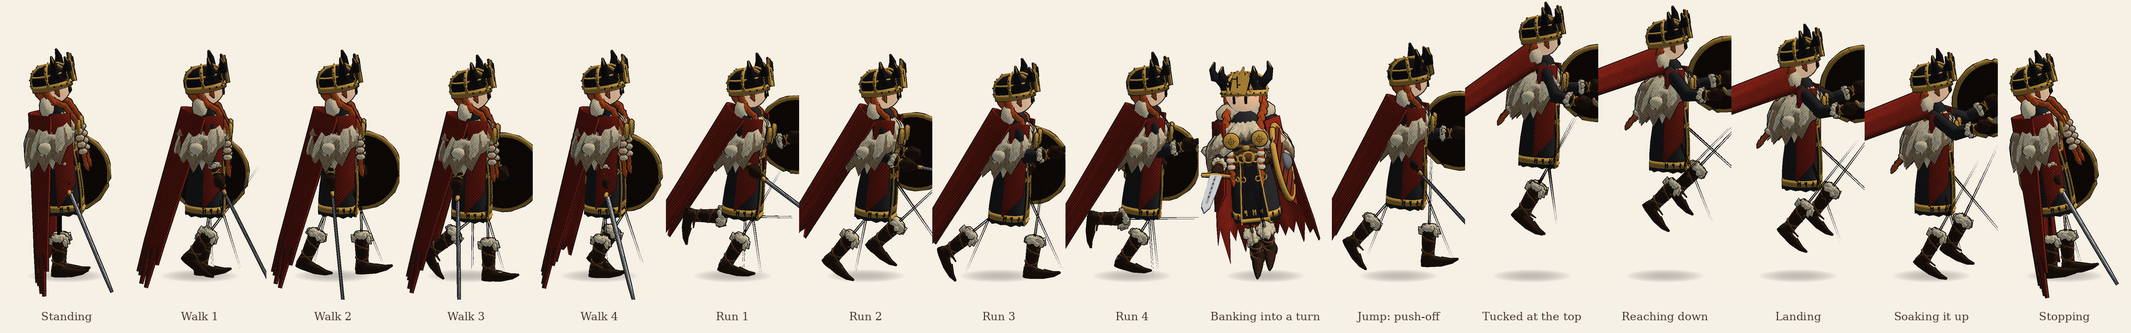
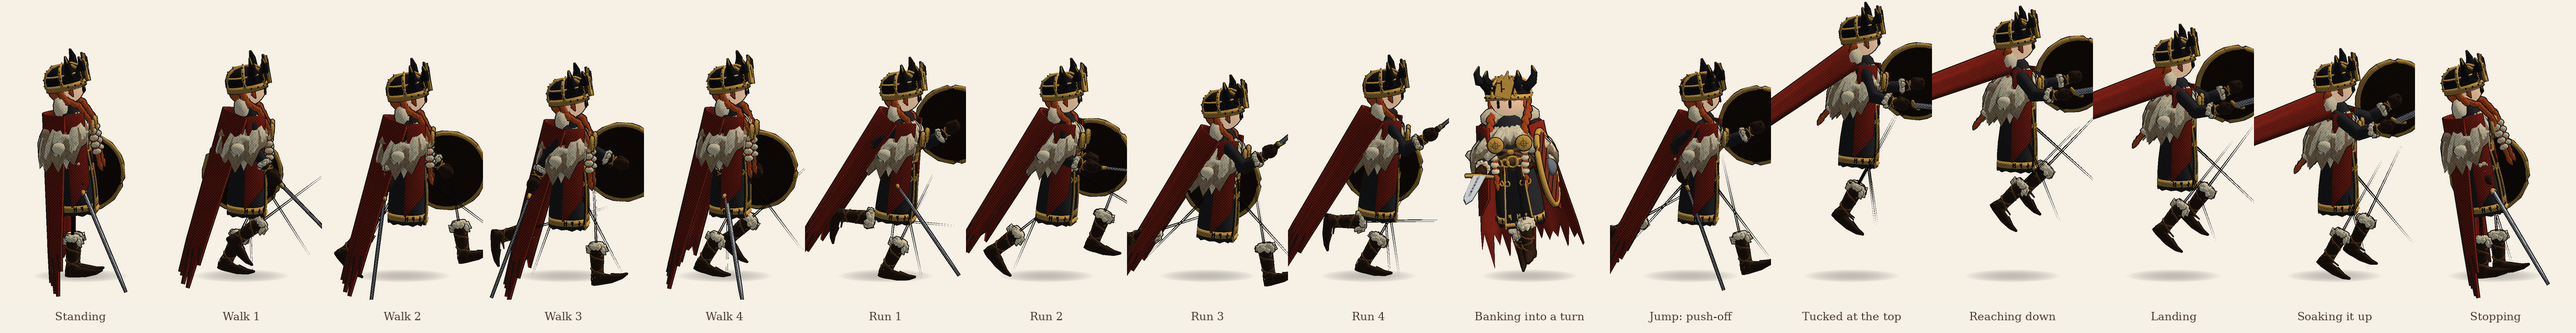
Planted feet: hip sweep matches the ground covered, so the stance foot doesn't skate
Claude-Session: https://claude.ai/code/session_01SCdejJ1UF8RUxAkkFhZXGU

diff --git a/tools/unity-stub/UnityStub.cs b/tools/unity-stub/UnityStub.cs
@@ -84,7 +84,7 @@ namespace UnityEngine {
   public static class Mathf { public const float PI=(float)Math.PI, Deg2Rad=(float)(Math.PI/180), Rad2Deg=(float)(180/Math.PI), Infinity=float.PositiveInfinity;
     public static float Sqrt(float f){return (float)Math.Sqrt(f);} public static float Max(float a,float b){return Math.Max(a,b);} public static int Max(int a,int b){return Math.Max(a,b);} public static float Min(float a,float b){return Math.Min(a,b);} public static int Min(int a,int b){return Math.Min(a,b);}
     public static float Abs(float f){return Math.Abs(f);} public static float Clamp(float v,float a,float b){return v<a?a:v>b?b:v;} public static int Clamp(int v,int a,int b){return v<a?a:v>b?b:v;} public static float Clamp01(float v){return Clamp(v,0,1);} public static float Lerp(float a,float b,float t){return a+(b-a)*Clamp01(t);}
-    public static float InverseLerp(float a,float b,float v){return a!=b? Clamp01((v-a)/(b-a)) : 0;} public static float Atan2(float y,float x){return (float)Math.Atan2(y,x);} public static float Cos(float f){return (float)Math.Cos(f);} public static float Sin(float f){return (float)Math.Sin(f);} public static float Tan(float f){return (float)Math.Tan(f);} public static float Exp(float f){return (float)Math.Exp(f);}
+    public static float InverseLerp(float a,float b,float v){return a!=b? Clamp01((v-a)/(b-a)) : 0;} public static float Atan2(float y,float x){return (float)Math.Atan2(y,x);} public static float Cos(float f){return (float)Math.Cos(f);} public static float Sin(float f){return (float)Math.Sin(f);} public static float Tan(float f){return (float)Math.Tan(f);} public static float Asin(float f){return (float)Math.Asin(f);} public static float Acos(float f){return (float)Math.Acos(f);} public static float Exp(float f){return (float)Math.Exp(f);}
     public static float Repeat(float t,float l){return t-(float)Math.Floor(t/l)*l;} public static float PingPong(float t,float l){t=Repeat(t,l*2); return l-Math.Abs(t-l);} public static int RoundToInt(float f){return (int)Math.Round(f, MidpointRounding.ToEven);} public static int CeilToInt(float f){return (int)Math.Ceiling(f);} public static int FloorToInt(float f){return (int)Math.Floor(f);} public static float Floor(float f){return (float)Math.Floor(f);} public static float Round(float f){return (float)Math.Round(f);} public static float Ceil(float f){return (float)Math.Ceiling(f);} public static bool Approximately(float a,float b){return Math.Abs(a-b)<1e-6f;} public static float Sign(float f){return f>=0?1:-1;} public static float Pow(float a,float b){return (float)Math.Pow(a,b);} public static float SmoothStep(float a,float b,float t){t=Clamp01(t); t=t*t*(3-2*t); return a+(b-a)*t;} public static float MoveTowards(float c,float t,float d){return Math.Abs(t-c)<=d? t : c+Math.Sign(t-c)*d;} public static float DeltaAngle(float a,float b){float d=Repeat(b-a,360); if(d>180)d-=360; return d;} public static float MoveTowardsAngle(float c,float t,float d){float delta=DeltaAngle(c,t); return Math.Abs(delta)<=d? t : c+Math.Sign(delta)*d;} }
   public static class Random { static System.Random r=new System.Random(1); public static float value{get{return (float)r.NextDouble();}} public static Vector3 insideUnitSphere{get{Vector3 v; do { v=new Vector3(value*2f-1f,value*2f-1f,value*2f-1f);} while(v.sqrMagnitude>1f); return v;}} public static float Range(float a,float b){return a+(b-a)*value;} public static int Range(int a,int b){return b>a? r.Next(a,b) : a;} public static Vector2 insideUnitCircle{get{float t=value*6.283f, d=(float)Math.Sqrt(value); return new Vector2((float)Math.Cos(t)*d,(float)Math.Sin(t)*d);}} public static void InitState(int s){r=new System.Random(s);} }
   public static class Time { public static int frameCount; public static float fixedDeltaTime, time, deltaTime, unscaledDeltaTime, unscaledTime, timeScale; }

diff --git a/OdinsCoin/Assets/Scripts/Characters/HeroAnimator.cs b/OdinsCoin/Assets/Scripts/Characters/HeroAnimator.cs
@@ -94,11 +94,17 @@ namespace OdinsCoin
             float strideTarget = stepping ? Mathf.Clamp01(0.35f + g) : 0f;
             if (loco.Pivoting && grounded) strideTarget = Mathf.Max(strideTarget, 0.45f);
             float reach = stride.Step(strideTarget, dt, 0.1f);
-            float run = Mathf.Clamp01((g - 0.62f) / 0.3f);
+            // The game's walk (4.2 m/s) is really a brisk jog, so the running gait comes in early.
+            float run = Mathf.Clamp01((g - 0.35f) / 0.45f);
             float cycleL = Frac(loco.Stride + 0.5f), cycleR = Frac(loco.Stride);
             float hipL, kneeL, hipR, kneeR, ankL, ankR;
             Gait.Sample(cycleL, run, out hipL, out kneeL, out ankL);
             Gait.Sample(cycleR, run, out hipR, out kneeR, out ankR);
+            // Feet stay planted: the thigh sweeps as far as the body travels over the foot while it's down, so the
+            // stance foot doesn't skate (within what a leg can do).
+            float sweep = Gait.SweepFor(loco.speed, loco.Cadence, run);
+            float mean = Mathf.Lerp(Gait.WalkMeanHip, Gait.RunMeanHip, run);
+            hipL = mean + (hipL - mean) * sweep; hipR = mean + (hipR - mean) * sweep;
             hipL *= reach; kneeL *= reach; hipR *= reach; kneeR *= reach; ankL *= reach; ankR *= reach;
             // In the air: legs push off straight, tuck up at the top, and reach down for the ground as it falls.
             float falling = fall.Step(Mathf.Clamp01(-verticalSpeed / 6f), dt, 0.1f);
@@ -190,6 +196,20 @@ namespace OdinsCoin
     {
         /// <summary>Thigh and shin length on the reference body (m), for how high the hips ride.</summary>
         public const float Thigh = 0.454f, Shin = 0.47f;
+        /// <summary>The middle of each gait's hip swing, and how far the thigh sweeps while the foot is down (degrees).</summary>
+        public const float WalkMeanHip = 7.5f, RunMeanHip = 13f, WalkSweep = 33f, RunSweep = 48f;
+
+        /// <summary>
+        /// How much to scale the hip swing so the planted foot doesn't slide: the body moves speed/cadence metres
+        /// per step, and the leg must sweep that far under it.
+        /// </summary>
+        public static float SweepFor(float speed, float cadence, float run)
+        {
+            if (speed < 0.05f || cadence <= 0f) return 1f;
+            float travel = speed / cadence;
+            float needed = 2f * Mathf.Asin(Mathf.Clamp(travel * 0.5f / (Thigh + Shin), 0f, 0.9f)) * Mathf.Rad2Deg;
+            return Mathf.Clamp(needed / Mathf.Lerp(WalkSweep, RunSweep, run), 0.6f, 1.8f);
+        }
 
         // Percent of the gait cycle, and the angle there.
         static readonly float[] walkT = { 0f, 12f, 30f, 50f, 60f, 73f, 87f, 100f };

diff --git a/tools/tests/LogicTests.cs b/tools/tests/LogicTests.cs
@@ -1120,8 +1120,27 @@ public static class LogicTests
             runLean += an.pose.body.x / 60f;
             runElbow += an.pose.leftElbow / 60f;
         }
-        Check(runLegs > walkLegs * 1.1f && runLean > walkLean + 2f, "sprinting strides out and leans in (" + runLegs + ", " + runLean + ")");
+        Check(runLegs > walkLegs * 0.9f && runLean > walkLean + 2f, "sprinting strides out and leans in (" + runLegs + ", " + runLean + ")");
         Check(runElbow < -60f, "sprinting pumps the arms with bent elbows (" + runElbow + ")");
+
+        // The foot on the ground stays put while the body goes over it (no skating), walking and running.
+        foreach (float speed in new[] { walk, sprint })
+        {
+            var fl = Walker(); var fa = new HeroAnimator(); float ft = 0f;
+            Animate(fl, fa, new Vector2(0f, 1f), speed, 2f, true, 0f, ref ft);
+            float slip = 0f, moved = 0f, prevFoot = float.NaN; bool prevLeft = false;
+            for (int i = 0; i < 120; i++)
+            {
+                Animate(fl, fa, new Vector2(0f, 1f), speed, 1f / 60f, true, 0f, ref ft);
+                var p = fa.pose;
+                bool left = Gait.Reach(p.leftLeg.x, p.leftKnee) > Gait.Reach(p.rightLeg.x, p.rightKnee);
+                float hip = left ? -p.leftLeg.x : -p.rightLeg.x, knee = left ? p.leftKnee : p.rightKnee;
+                float foot = fl.position.y + Gait.Thigh * Mathf.Sin(hip * Mathf.Deg2Rad) + Gait.Shin * Mathf.Sin((hip - knee) * Mathf.Deg2Rad);
+                if (!float.IsNaN(prevFoot) && left == prevLeft) { slip += Mathf.Abs(foot - prevFoot); moved += fl.speed / 60f; }
+                prevFoot = foot; prevLeft = left;
+            }
+            Check(slip < moved * 0.35f, "at " + speed + " m/s the planted foot barely slides (" + slip + " m over " + moved + " m)");
+        }
 
         // Turning right: the body banks right, the head looks round first.
         float bank = 0f, look = 0f;
@@ -1153,7 +1172,8 @@ public static class LogicTests
         Check(lowest < steady - 0.02f, "and springs back up (" + lowest + " landing, " + steady + " running)");
         jolt = Mathf.Max(jolt, Animate(l, an, new Vector2(-1f, -0.2f), sprint, 1.5f, true, 0f, ref time));
         jolt = Mathf.Max(jolt, Animate(l, an, Vector2.zero, sprint, 1f, true, 0f, ref time));
-        Check(jolt < 4f, "no joint jumps more than a few degrees in one frame, whatever the hero does (" + jolt + ")");
+        // (A full sprint stride itself bends the curve by ~6 degrees a frame at 60 fps; a pop would be far more.)
+        Check(jolt < 9f, "no joint jumps more than a few degrees in one frame, whatever the hero does (" + jolt + ")");
     }
 
     static void AttackTests()

diff --git a/tools/preview/HeroPreview.cs b/tools/preview/HeroPreview.cs
@@ -301,7 +301,7 @@ public static class HeroPreview
                 next++;
             }
         }
-        const int cellW = 480, cellH = 1080;
+        const int cellW = 580, cellH = 1080;
         int w = cellW * frames.Count, h = cellH;
         var img = new float[w * h * 3];
         for (int i = 0; i < w * h; i++) { img[i * 3] = Paper.r; img[i * 3 + 1] = Paper.g; img[i * 3 + 2] = Paper.b; }

diff --git a/OdinsCoin/CHARACTERS.md b/OdinsCoin/CHARACTERS.md
@@ -121,5 +121,6 @@ Alt bygges i kode (ingen modellfiler trengs). `tools/preview/render.sh` tegner e
   - [x] NPC-er bruker samme system. Saksiske vakter går og snur i steg, snur seg mot deg før de hogger, og sverdet går gjennom samme slag, med oppladningen strukket ut som en tydelig advarsel. Bjørn, Gunnar og de danske bueskytterne puster, flytter vekten, kikker seg rundt og snur seg i steg (`HeroIdle`). Bueskytterne spenner og skyter med buen når pilene går.
   - [x] Forhåndsvisning: [docs/footsteps.png](docs/footsteps.png) viser fotsporene ovenfra i en sving når figuren går og når den sprinter, en U-sving i sprint og en snuing fra stillestående. [docs/motion.png](docs/motion.png) viser gange, sprint, hopp og landing, og [docs/attacks.png](docs/attacks.png) viser slagene.
   - [x] Knær og ekte gange: beina har kneledd, og alt fra kneet og ned (legg, støvler, buksebein) bøyer seg med det. Hofte og kne følger målte gangkurver for mennesker. For gange er de etter Winters normaldata, med 60 % av skrittet på bakken. For løping har foten 38 % bakketid og bøyer kneet til over 100° i svingfasen. Gange glir over i løping med farten. Kroppen hviler på det lengste beinet, så den bølger av seg selv og synker ned i en landing. I hoppet strekkes beina i satsen, trekkes opp på toppen og strekkes mot bakken i fallet, og knærne svikter ved landing.
+  - [x] Føttene står stille på bakken: lårets sving skaleres slik at foten som står nede blir der mens kroppen går over den, både i gange og løp. En test måler at foten sklir lite. Spillets gange (4,2 m/s) er egentlig et raskt jogg, så løpesteget kommer tidlig inn.
   - [x] Ankler: foten under ankelen bøyer seg for seg selv. Den ruller fra hæl til tå etter målte ankelkurver, strekker tærne i avsparket og i lufta, og bøyer dem opp for å ta imot landingen.
   - [x] Flere slag per våpen (kombinasjoner): trykker du angrep igjen mens et slag pågår, går det rett over i neste. Øks: hogg ovenfra, skrått hugg og bredt feie-slag. Sverd: hugg, bakhåndshugg og utfall. Spyd: stikk, overhåndsstikk og feiing med skaftet. Stav: slag ovenfra, feiing og støt. Bue: full spenning og kjapt skudd. Uten våpen: jab, kryss og uppercut. Det siste slaget i rekken slår hardest.
